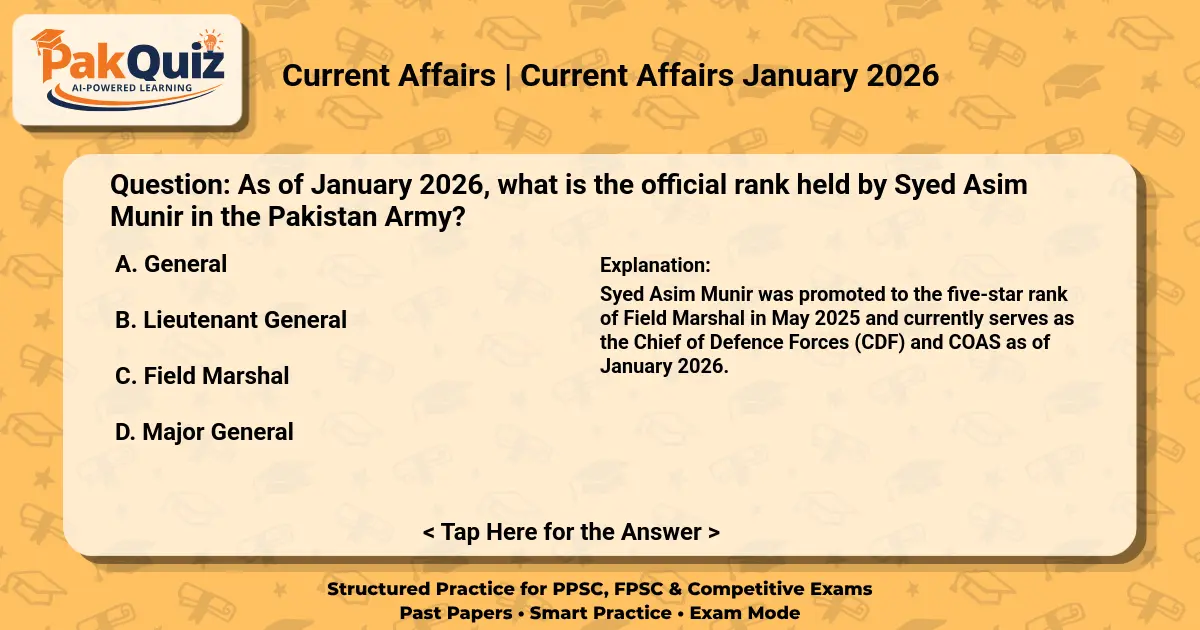
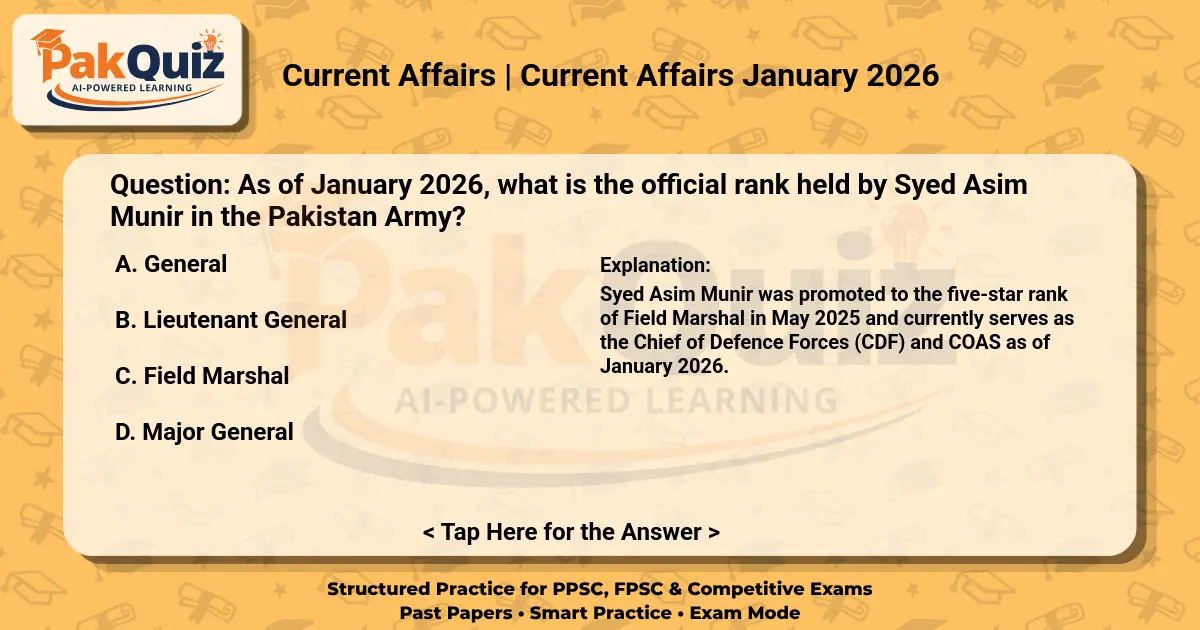
minor Updates

diff --git a/resources/views/components/⚡navbar.blade.php b/resources/views/components/⚡navbar.blade.php
@@ -20,8 +20,8 @@ new class extends Component {
     x-data="{ mobileMenuOpen: false }">
     <div class="flex max-w-7xl px-4 xl:px-0 lg:mx-auto items-center justify-between gap-4">
         <div class="w-full lg:w-lg">
-            <a href="{{ route('home') }}" title="PakQuiz" class="text-2xl font-bold ">
-                <img src="{{ asset('logo.svg') }}" alt="PakQuiz" class="h-12 w-auto" height="48" width="112"
+            <a href="{{ route('home') }}" aria-label="PakQuiz Logo" title="PakQuiz Logo" class="text-2xl font-bold ">
+                <img src="{{ asset('logo.svg') }}" alt="PakQuiz Logo" class="h-12 w-auto" height="48" width="112"
                     fetchpriority="high" decoding="async" />
             </a>
         </div>
@@ -54,8 +54,8 @@ new class extends Component {
                             x-cloak>
                             <div class="py-1">
                                 @foreach ($subjects as $item)
-                                    <a href="{{ $item['link'] }}"
-                                        class="block px-4 py-2 text-sm hover:bg-gray-100">{{ $item['title'] }}</a>
+                                <a href="{{ $item['link'] }}"
+                                    class="block px-4 py-2 text-sm hover:bg-gray-100">{{ $item['title'] }}</a>
                                 @endforeach
                             </div>
                         </div>
@@ -78,8 +78,8 @@ new class extends Component {
                             x-cloak>
                             <div class="py-1">
                                 @foreach ($papers as $item)
-                                    <a href="{{ $item['link'] }}"
-                                        class="block px-4 py-2 hover:rounded text-sm hover:bg-gray-100">{{ $item['title'] }}</a>
+                                <a href="{{ $item['link'] }}"
+                                    class="block px-4 py-2 hover:rounded text-sm hover:bg-gray-100">{{ $item['title'] }}</a>
                                 @endforeach
                             </div>
                         </div>
@@ -101,8 +101,8 @@ new class extends Component {
                             x-cloak>
                             <div class="py-1">
                                 @foreach ($about_us as $item)
-                                    <a href="{{ $item['link'] }}"
-                                        class="block px-4 py-2 hover:rounded text-sm hover:bg-gray-100">{{ $item['title'] }}</a>
+                                <a href="{{ $item['link'] }}"
+                                    class="block px-4 py-2 hover:rounded text-sm hover:bg-gray-100">{{ $item['title'] }}</a>
                                 @endforeach
                             </div>
                         </div>
@@ -128,15 +128,15 @@ new class extends Component {
             <div class="flex items-center gap-4">
 
                 @if (Route::has('login'))
-                    @auth
-                        <x-nav-link route="admin.dashboard">Dashboard</x-nav-link>
-                    @else
-                        <x-nav-link route="login">Log in</x-nav-link>
+                @auth
+                <x-nav-link route="admin.dashboard">Dashboard</x-nav-link>
+                @else
+                <x-nav-link route="login">Log in</x-nav-link>
 
-                        @if (Route::has('register'))
-                            <x-nav-link route="register" class="hidden md:block">Register</x-nav-link>
-                        @endif
-                    @endauth
+                @if (Route::has('register'))
+                <x-nav-link route="register" class="hidden md:block">Register</x-nav-link>
+                @endif
+                @endauth
                 @endif
                 <livewire:quiz-settings :class="'hidden md:block'" />
             </div>
@@ -172,8 +172,8 @@ new class extends Component {
                     x-cloak>
                     <div class="py-1">
                         @foreach ($subjects as $item)
-                            <a href="{{ $item['link'] }}"
-                                class="block px-4 py-2 text-sm  hover:bg-gray-100 rounded-sm">{{ $item['title'] }}</a>
+                        <a href="{{ $item['link'] }}"
+                            class="block px-4 py-2 text-sm  hover:bg-gray-100 rounded-sm">{{ $item['title'] }}</a>
                         @endforeach
                     </div>
                 </div>
@@ -195,8 +195,8 @@ new class extends Component {
                 <div x-show="open" x-transition x-cloak>
                     <div class="py-1">
                         @foreach ($papers as $item)
-                            <a href="{{ $item['link'] }}"
-                                class="block px-4 py-2 hover:rounded text-sm  hover:bg-gray-100 rounded-sm">{{ $item['title'] }}</a>
+                        <a href="{{ $item['link'] }}"
+                            class="block px-4 py-2 hover:rounded text-sm  hover:bg-gray-100 rounded-sm">{{ $item['title'] }}</a>
                         @endforeach
                     </div>
                 </div>
@@ -217,8 +217,8 @@ new class extends Component {
                 <div x-show="open" x-transition x-cloak>
                     <div class="py-1">
                         @foreach ($about_us as $item)
-                            <a href="{{ $item['link'] }}"
-                                class="block px-4 py-2 hover:rounded text-sm  hover:bg-gray-100">{{ $item['title'] }}</a>
+                        <a href="{{ $item['link'] }}"
+                            class="block px-4 py-2 hover:rounded text-sm  hover:bg-gray-100">{{ $item['title'] }}</a>
                         @endforeach
                     </div>
                 </div>

diff --git a/resources/views/components/⚡footer.blade.php b/resources/views/components/⚡footer.blade.php
@@ -21,8 +21,9 @@ new class extends Component {
         <div class="gap-6 grid grid-cols-2 sm:grid-cols-3 md:grid-cols-6 md:gap-8">
             <div class="col-span-2 sm:col-span-3 md:col-span-2 space-y-2">
                 <div class="mb-4 flex items-center justify-center space-x-3">
-                    <a href="{{ route('home') }}" class="text-2xl font-bold ">
-                        <img src="{{ asset('logo.svg') }}" title="PakQuiz" class="h-full w-full md:max-h-24" height="96"
+                    <a href="{{ route('home') }}" aria-label="PakQuiz Logo" title="PakQuiz Logo"
+                        class="text-2xl font-bold ">
+                        <img src="{{ asset('logo.svg') }}" alt="PakQuiz Logo" class="h-full w-full md:max-h-24" height="96"
                             width="224" fetchpriority="high" decoding="async" />
                     </a>
                 </div>
@@ -75,10 +76,10 @@ new class extends Component {
                 <h3 class="mb-3 font-semibold">Papers</h3>
                 <ul class="space-y-2 text-sm">
                     @foreach ($papers as $item)
-                        <li key="{{ $item['title'] }}">
-                            <a href="{{ $item['link'] }}"
-                                class="hover:text-primary hover:underline">{{ $item['title'] }}</a>
-                        </li>
+                    <li key="{{ $item['title'] }}">
+                        <a href="{{ $item['link'] }}"
+                            class="hover:text-primary hover:underline">{{ $item['title'] }}</a>
+                    </li>
                     @endforeach
                 </ul>
             </div>
@@ -87,10 +88,10 @@ new class extends Component {
                 <h3 class="mb-3 font-semibold">Subjects</h3>
                 <ul class="space-y-2 text-sm">
                     @foreach ($subjects as $item)
-                        <li key="{{ $item['title'] }}">
-                            <a href="{{ $item['link'] }}"
-                                class="hover:text-primary hover:underline">{{ $item['title'] }}</a>
-                        </li>
+                    <li key="{{ $item['title'] }}">
+                        <a href="{{ $item['link'] }}"
+                            class="hover:text-primary hover:underline">{{ $item['title'] }}</a>
+                    </li>
                     @endforeach
                 </ul>
             </div>
@@ -99,10 +100,10 @@ new class extends Component {
                 <h3 class="mb-3 font-semibold">Support</h3>
                 <ul class="space-y-2 text-sm">
                     @foreach ($about_us as $item)
-                        <li key="{{ $item['title'] }}">
-                            <a href="{{ $item['link'] }}"
-                                class="hover:text-primary hover:underline">{{ $item['title'] }}</a>
-                        </li>
+                    <li key="{{ $item['title'] }}">
+                        <a href="{{ $item['link'] }}"
+                            class="hover:text-primary hover:underline">{{ $item['title'] }}</a>
+                    </li>
                     @endforeach
                 </ul>
             </div>

diff --git a/routes/web.php b/routes/web.php
@@ -138,6 +138,18 @@ Route::prefix('admin')->name('admin.')->middleware(['auth', 'verified', 'role:ad
             $font->align('center');
         });
 
+        $watermark = $manager->read(public_path('assets/images/watermark.png'));
+
+        $watermark->scale(width: $image->width() * 0.6);
+
+        $image->place(
+            $watermark,
+            'center',
+            0,
+            20,
+            10
+        );
+
         // Save
         $image->toWebp()->save($fullPath);
 

diff --git a/app/Services/McqOgImageService.php b/app/Services/McqOgImageService.php
@@ -116,6 +116,18 @@ class McqOgImageService
             $font->align('center');
         });
 
+        $watermark = $manager->read(public_path('assets/images/watermark.png'));
+
+        $watermark->scale(width: $image->width() * 0.6);
+
+        $image->place(
+            $watermark,
+            'center',
+            0,
+            20,
+            10
+        );
+
         // Save
         $image->toWebp()->save($fullPath);
 
